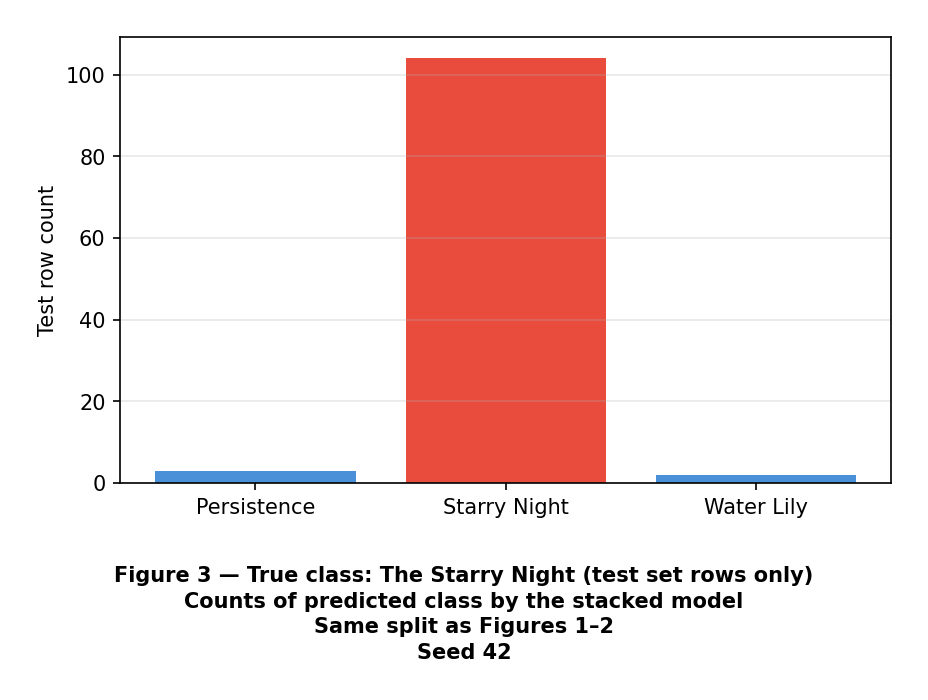
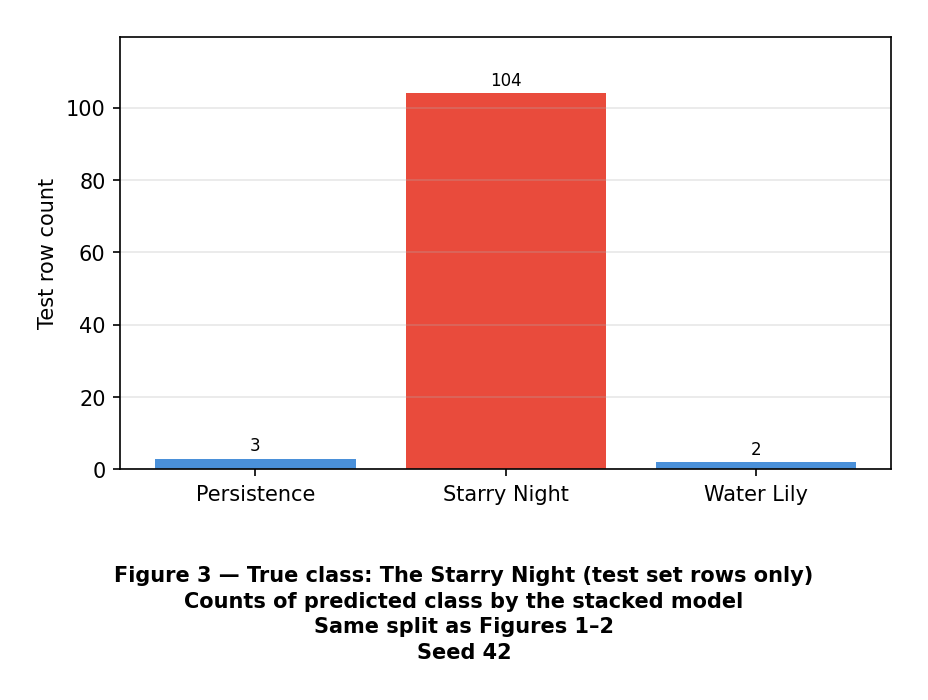
plots: bar labels on Fig 3; revert Fig 4 point annotations
Made-with: Cursor

diff --git a/report_figures.py b/report_figures.py
@@ -20,10 +20,10 @@ Usage (repository root, ``training_data.csv`` present)::
     Confusion matrix for stacked classifier on the 20% test set.
 
 ``plots/03_errors_true_starry_night.png``
-    True class Starry Night: distribution of predicted labels on the test set.
+    True class Starry Night: predicted-label counts on the test set; integer on each bar.
 
 ``plots/04_partition_seed_sensitivity.png``
-    Stacking **test accuracy** (fraction correct) vs random seed; numeric label on each point.
+    Stacking test accuracy vs random seed for the train/test split (same 80/20 protocol).
 
 ``plots/05_appendix_model_compare_min_mean_max.csv``
     Min/mean/max table; ``--appendix`` adds extra rows and ``05_appendix_model_compare.png``.
@@ -169,9 +169,17 @@ def figure_starry_night_errors(r: dict, path: Path, split_seed: int) -> None:
     preds_on_sn = pred[mask]
     counts = np.bincount(preds_on_sn, minlength=len(names))
     fig, ax = plt.subplots(figsize=(6, 4.5))
-    ax.bar(short, counts, color=["#4a90d9" if i != sn_i else "#e94b3c" for i in range(len(names))])
+    bars = ax.bar(
+        short, counts, color=["#4a90d9" if i != sn_i else "#e94b3c" for i in range(len(names))]
+    )
     ax.set_ylabel("Test row count")
     ax.grid(axis="y", alpha=0.3)
+    try:
+        ax.bar_label(bars, labels=[str(int(c)) for c in counts], fontsize=8, padding=2)
+    except AttributeError:
+        pass
+    top = float(counts.max()) if len(counts) else 0.0
+    ax.set_ylim(0, max(top * 1.15, top + 1.0))
     _figure_label_below(
         fig,
         (
@@ -187,24 +195,11 @@ def figure_starry_night_errors(r: dict, path: Path, split_seed: int) -> None:
 
 def figure_stability_seeds(rows: list[tuple[int, float]], path: Path) -> None:
     seeds, accs = zip(*rows)
-    seeds = list(seeds)
-    accs = list(accs)
     fig, ax = plt.subplots(figsize=(6.5, 4.8))
     ax.plot(seeds, accs, "o-", linewidth=2, markersize=8)
     ax.set_xlabel("Random seed (80/20 train+val vs test, same protocol each run)")
-    ax.set_ylabel("Test accuracy (fraction correct, not error rate)")
-    ax.set_ylim(min(accs) - 0.04, max(accs) + 0.06)
+    ax.set_ylabel("Stacking accuracy on 20% test set")
     ax.grid(True, alpha=0.3)
-    for sd, acc in zip(seeds, accs):
-        ax.annotate(
-            f"{acc:.4f}",
-            (sd, acc),
-            textcoords="offset points",
-            xytext=(0, 10),
-            ha="center",
-            fontsize=8,
-            fontweight="bold",
-        )
     m = min(accs)
     ax.axhline(m, color="gray", linestyle="--", alpha=0.7, label=f"min={m:.4f}")
     ax.axhline(np.mean(accs), color="green", linestyle=":", alpha=0.8, label=f"mean={np.mean(accs):.4f}")
@@ -215,7 +210,6 @@ def figure_stability_seeds(rows: list[tuple[int, float]], path: Path) -> None:
         (
             "Figure 4 — Stacking test accuracy vs random seed",
             f"Seeds: {seed_list}",
-            "Each point: share of correct predictions on the 20% test set",
             "Hyperparameters fixed; only the random train/test split changes",
         ),
     )

diff --git a/plots/README.md b/plots/README.md
@@ -6,8 +6,8 @@ Generated by `python report_figures.py` from the repository root. Each PNG has a
 |------|-------------------|
 | `01_model_compare_test.png` | Test accuracy and macro-F1 for LR, NB, RF, majority vote, stacking. |
 | `02_confusion_matrix_stacking.png` | Confusion matrix for stacking on the test set. |
-| `03_errors_true_starry_night.png` | Distribution of predictions when true class is *The Starry Night*. |
-| `04_partition_seed_sensitivity.png` | Test accuracy (fraction **correct**) vs six random seeds; value printed at each point. |
+| `03_errors_true_starry_night.png` | True class *The Starry Night*: count per predicted label; number on each bar. |
+| `04_partition_seed_sensitivity.png` | Stacking test accuracy vs six random seeds (80/20 split protocol). |
 | `05_appendix_model_compare_min_mean_max.csv` | Numeric min/mean/max (model A; add B/C with `--appendix`). |
 | `05_appendix_model_compare.png` | (Optional) Bar chart of min/mean/max if you run with `--appendix`. |
 
